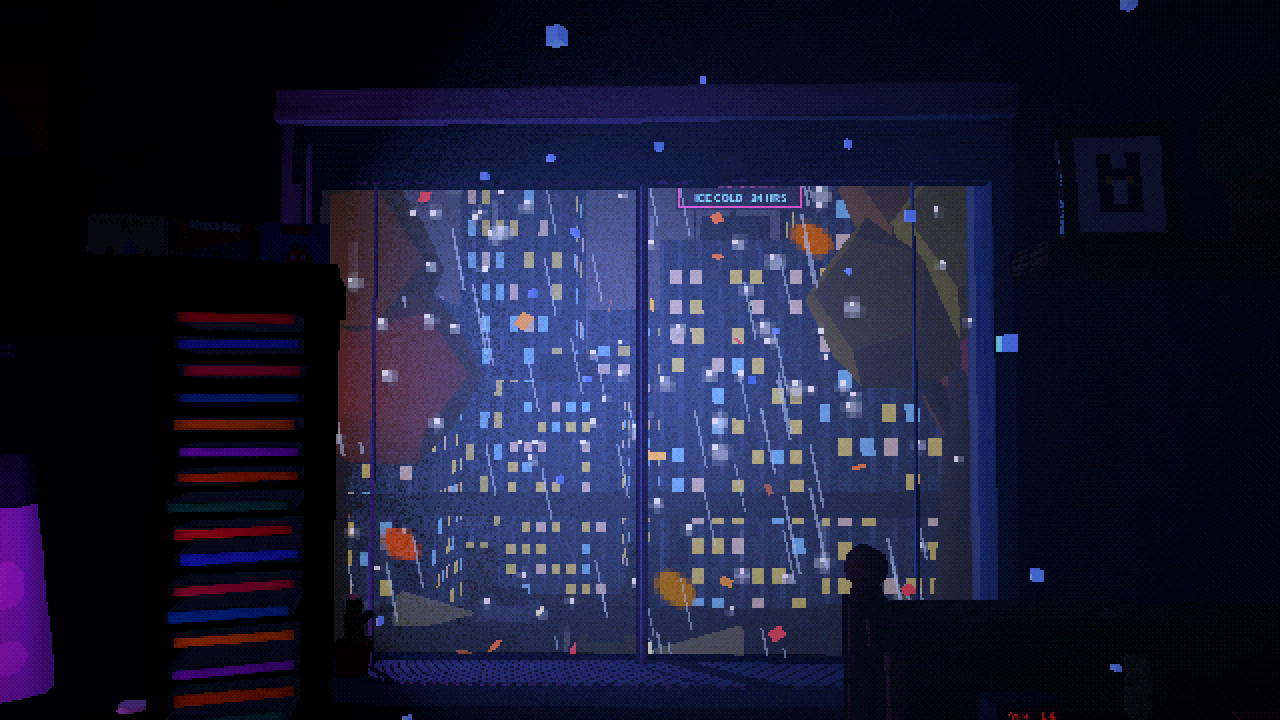
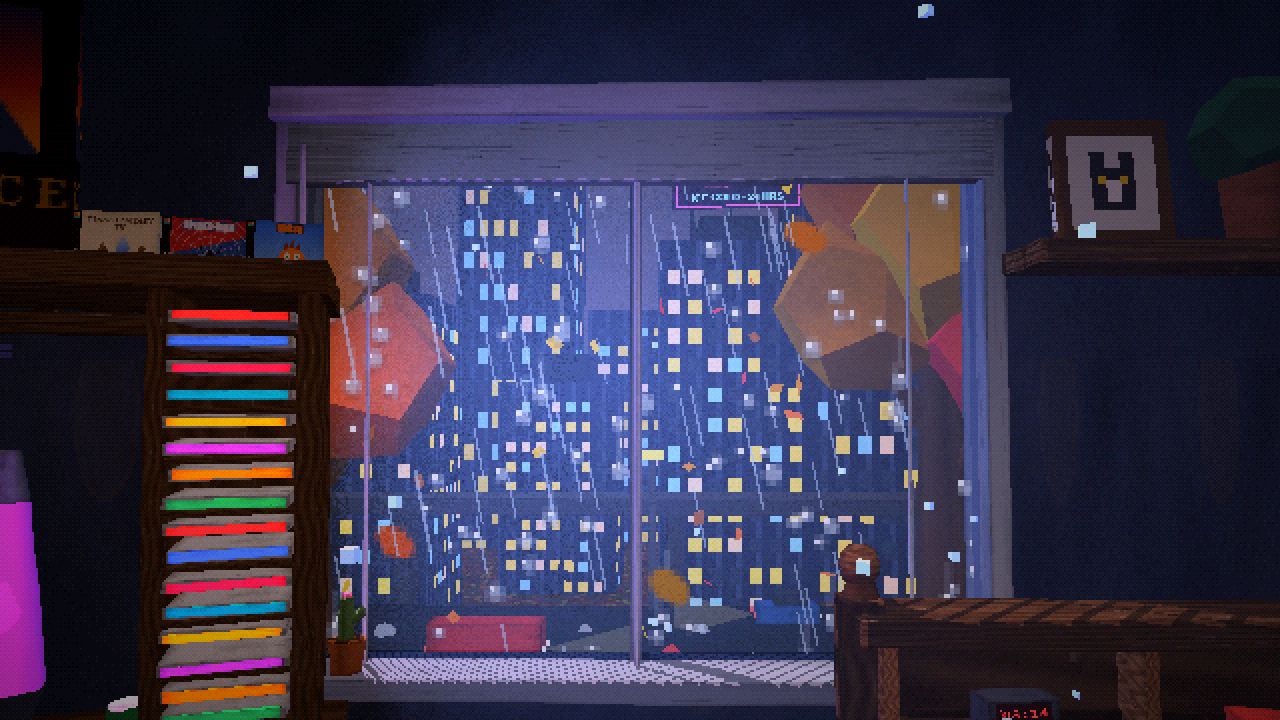
v1.1.1: keep light rays inside the window opening, remove fall leaf clicking; refresh page media

diff --git a/src/ps1_bedroom.html b/src/ps1_bedroom.html
@@ -2307,7 +2307,11 @@
                 vec3 L = lightToSample * inversesqrt(max(0.001, distToLightSq));
 
                 float cosAngle = dot(L, uLightDir);
-                if (cosAngle > uLightCosAngle) {
+                // Only air the window opening can see: the line back to the light must cross the back wall inside the window
+                float tWin = (-3.0 - uLightPos.z) / (samplePos.z - uLightPos.z + 0.00001);
+                vec2 winHit = uLightPos.xy + (samplePos.xy - uLightPos.xy) * tWin;
+                bool throughWindow = winHit.x > -0.58 && winHit.x < 2.18 && winHit.y > 1.55 && winHit.y < 3.75;
+                if (cosAngle > uLightCosAngle && throughWindow) {
                   vec3 shadowNDC = shadowClip.xyz / max(0.0001, shadowClip.w);
                   vec2 shadowUV = shadowNDC.xy * 0.5 + 0.5;
                   float currentDepth = shadowNDC.z * 0.5 + 0.5;
@@ -7822,8 +7826,8 @@
       const moonK = (1 - smooth(-9, -3, ENV.sunDeg)) * smooth(-0.04, 0.12, ENV.moonEl);
       activeBodyIsSun = sunK >= moonK * 0.9;
       // Keep the beam coming in through the window even when the body is high or off to the side
-      const el = Math.max(0.07, Math.min(0.9, activeBodyIsSun ? ENV.sunEl : ENV.moonEl));
-      const az = Math.max(-1.1, Math.min(1.1, activeBodyIsSun ? ENV.sunAz : ENV.moonAz));
+      const el = Math.max(0.07, Math.min(0.62, activeBodyIsSun ? ENV.sunEl : ENV.moonEl));
+      const az = Math.max(-0.85, Math.min(0.85, activeBodyIsSun ? ENV.sunAz : ENV.moonAz));
       celestialDir.set(Math.sin(az) * Math.cos(el), Math.sin(el), -Math.cos(az) * Math.cos(el));
       celestialPos.set(0.8 + celestialDir.x * 3.4, 2.55 + celestialDir.y * 3.4, -3.0 + celestialDir.z * 3.4);
       moonLight.position.copy(celestialPos);
@@ -8957,10 +8961,6 @@
       const leafGust = new Tone.Gain(0.5);
       nativeLfo(gainParam(leafGust), 0.13, 0.15, 1);
       new Tone.Noise('pink').start().chain(filt({ frequency: 2400, type: 'bandpass', Q: 0.8 }), leafGust, new Tone.Gain(0.35), SND.leaves);
-      const leafCrackle = new Tone.Player(makeTickBuffer(4, 45, 0.008, 0.03, 1.5));
-      leafCrackle.loop = true;
-      leafCrackle.chain(filt({ frequency: 2000, type: 'bandpass', Q: 0.7 }), new Tone.Gain(0.35), SND.leaves);
-      leafCrackle.start();
 
       SND.breeze = new Tone.Gain(0);
       SND.breeze.connect(SND.natureBus);
@@ -10300,8 +10300,13 @@
     });
 
     // ---------------- CHANGELOG (newest first; add a new entry at the top for every release) ----------------
-    const APP_VERSION = '1.1';
+    const APP_VERSION = '1.1.1';
     const CHANGELOG = [
+      { v: '1.1.1', name: 'Fixes', sections: {
+        Fixed: [
+          'Light rays could leak through the wall beside and above the window when the sun was high or off to the side. Rays now only shine through the window opening',
+          'Removed the clicking crackle that played outside in fall (the soft rustle of wind in the leaves stays)'
+        ] } },
       { v: '1.1', name: 'The living room update', sections: {
         Added: [
           'Real-time day and night: the sun and moon follow your clock along real paths, with real sunrise and sunset times for the season (and your city). The room light comes from whichever is up and changes colour from deep orange to warm daylight to cool moonlight',

diff --git a/CHANGELOG.md b/CHANGELOG.md
@@ -2,6 +2,11 @@
 
 The in-app version of this list lives in `src/ps1_bedroom.html` (search for `const CHANGELOG`). Update both for each release, and bump `APP_VERSION`.
 
+## v1.1.1 — Fixes
+**Fixed**
+- Light rays could leak through the wall beside and above the window when the sun was high or off to the side; rays now only shine through the window opening
+- Removed the clicking crackle that played outside in fall (the soft leaf rustle stays)
+
 ## v1.1 — The living room update
 **Added**
 - Real-time day and night: the sun and moon follow your clock along real paths, with real sunrise/sunset times for the season (and your city); the room light comes from whichever is up

diff --git a/README.md b/README.md
@@ -42,7 +42,7 @@ Every corner has its own sound, mixed in 3D: the hum of the CRT, the ceiling fan
 <td width="50%" valign="top">
 
 ### 📱 Android
-1. Grab **`PS1-Bedroom-v1.1.apk`** from the **[latest release](../../releases/latest)**.
+1. Grab the **`PS1-Bedroom-vX.Y.apk`** file from the **[latest release](../../releases/latest)**.
 2. Open it on your phone and tap **Install**. Allow installs from your browser / file manager if asked.
 3. If Play Protect warns you (it's not from the Play Store), tap **Install anyway**.
 4. Tap the screen to boot up. 🎮
